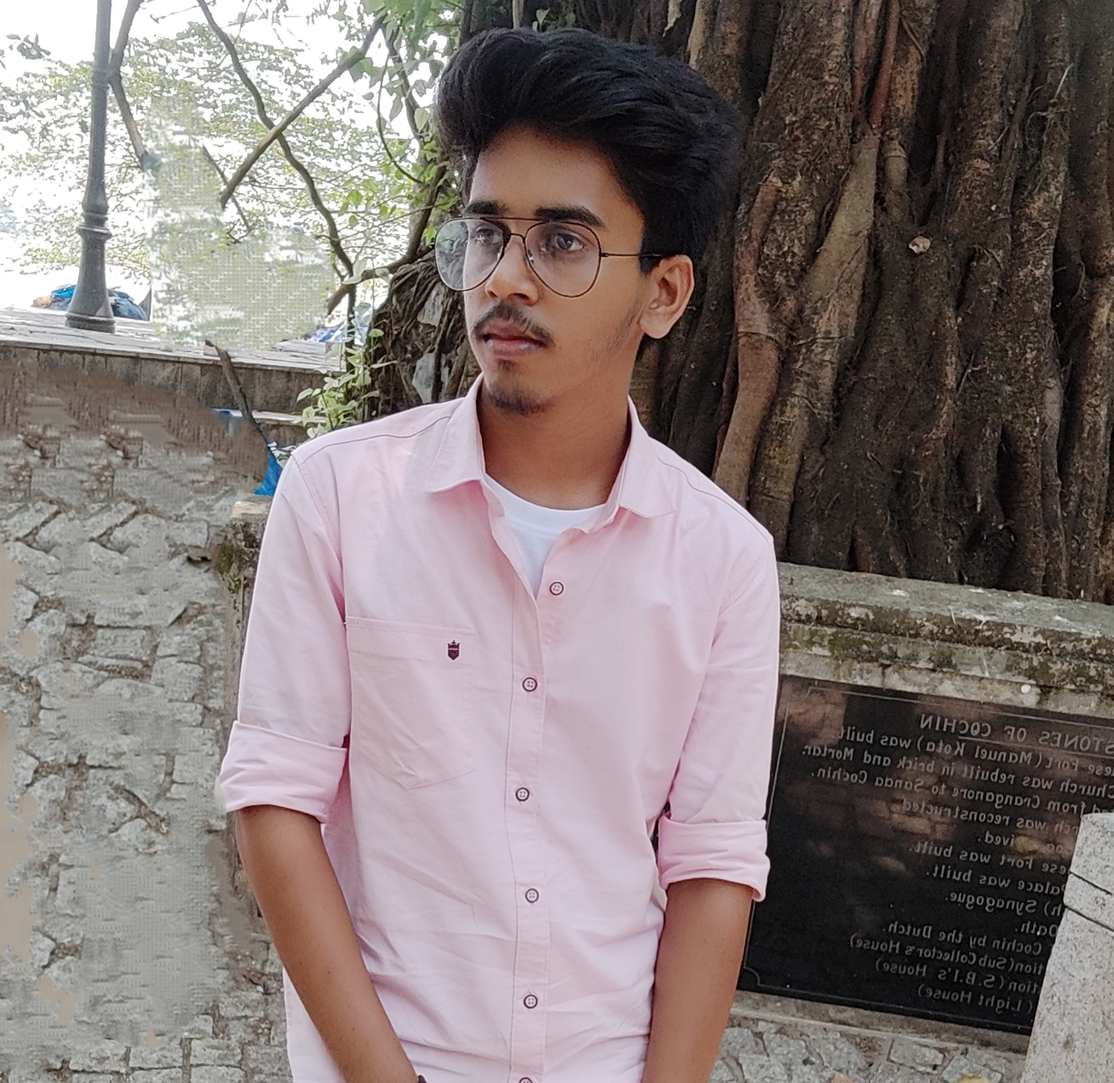
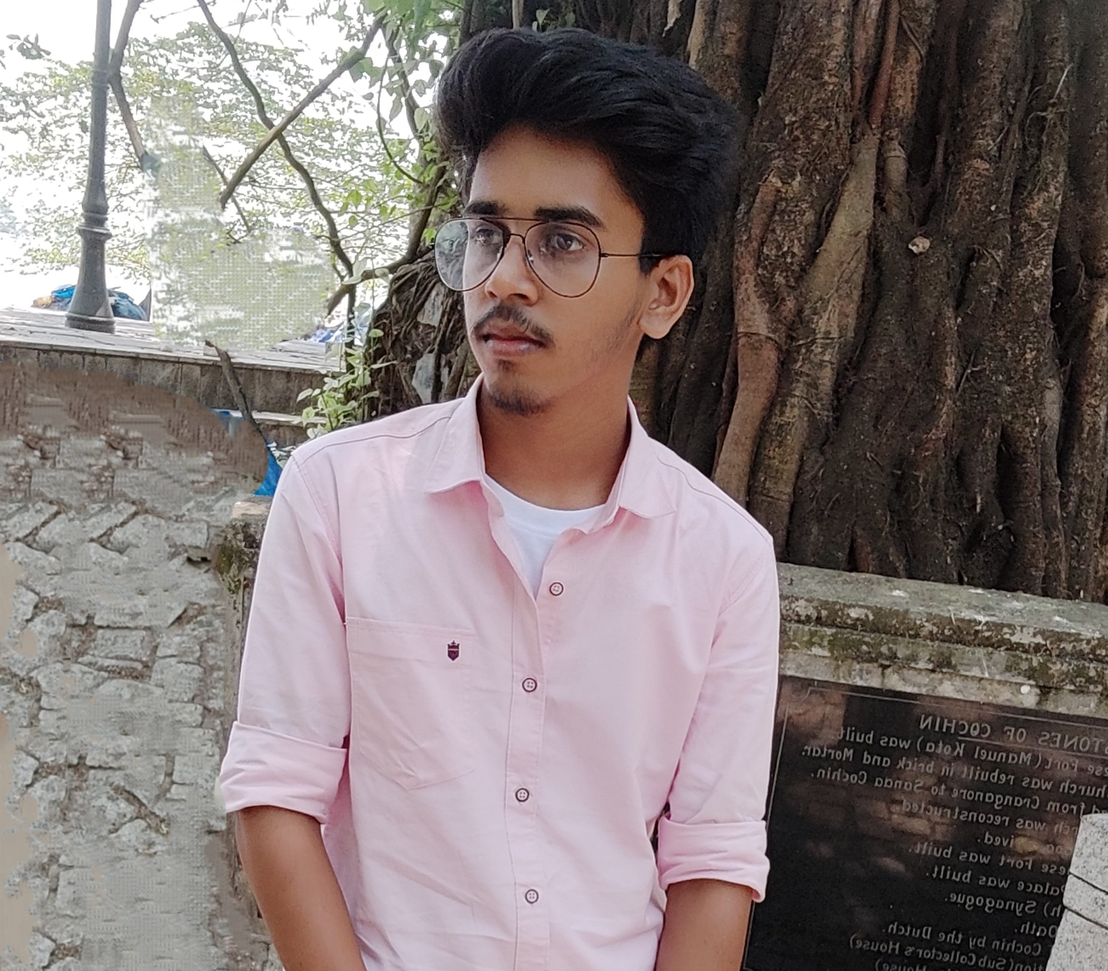
Reduced Hero Image for Optimization

diff --git a/PortFolio/assets/css/style.css b/PortFolio/assets/css/style.css
@@ -295,7 +295,7 @@
 
 .my-photo {
     width: 150px;
-    border-radius: 100px;
+    border-radius: 50%;
     margin: 5px 0px;
     transition: 1s;
     cursor: pointer;
@@ -957,7 +957,7 @@ footer {
 
     .my-photo {
         width: 150px;
-        border-radius: 100px;
+        border-radius: 50%px;
         margin: 5px 0px;
         transition: 1s;
         cursor: pointer;
